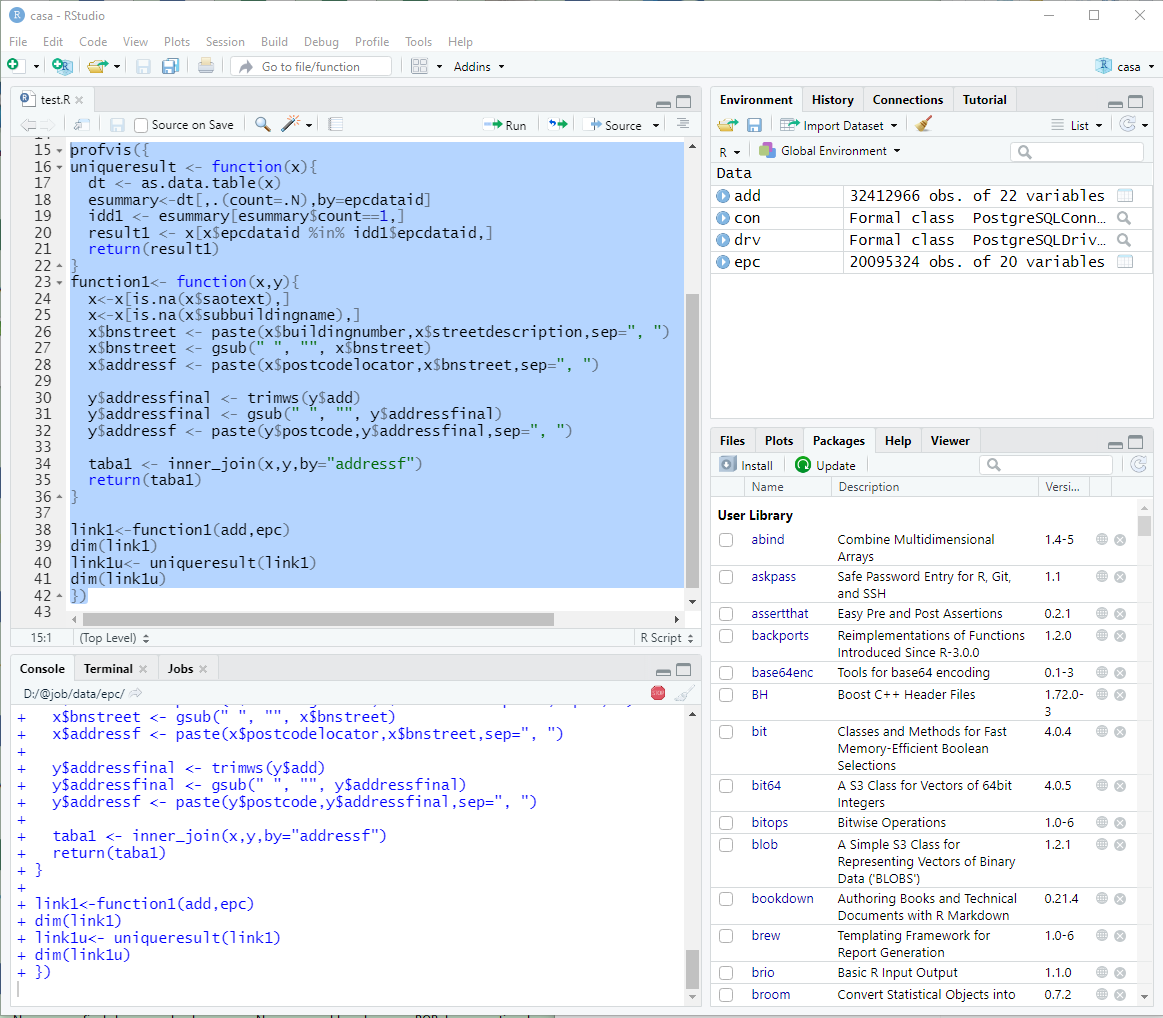
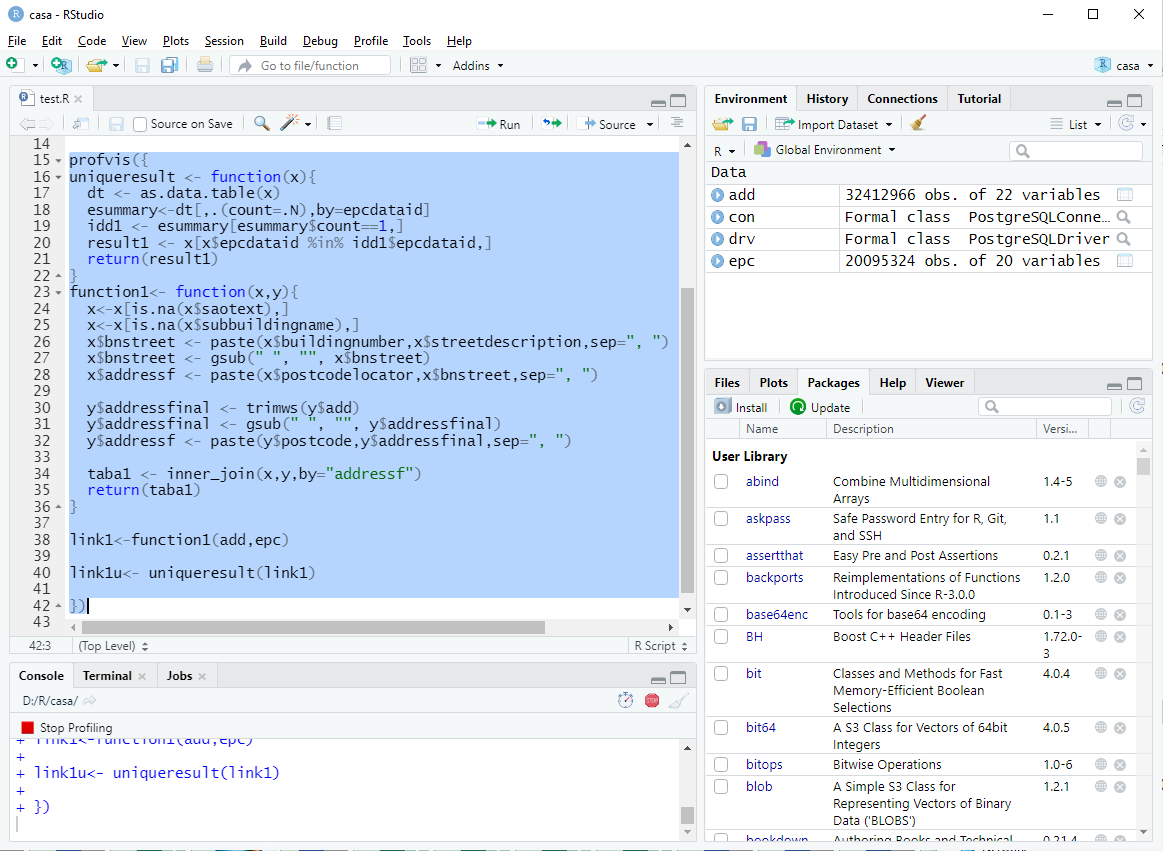
fourteen

Changed region(s): [[0.0, 0.0, 1.0, 1.0], [0.9286, 0.0, 1.0, 0.0306], [0.8358, 0.4583, 0.8667, 0.4888]]

diff --git a/docs/working-with-big-data-in-r.html b/docs/working-with-big-data-in-r.html
@@ -556,7 +556,7 @@ code span.wa { color: #60a0b0; font-weight: bold; font-style: italic; } /* Warni
 <span id="cb47-6"><a href="working-with-big-data-in-r.html#cb47-6" aria-hidden="true" tabindex="-1"></a>end_time <span class="ot">&lt;-</span> <span class="fu">Sys.time</span>()</span>
 <span id="cb47-7"><a href="working-with-big-data-in-r.html#cb47-7" aria-hidden="true" tabindex="-1"></a></span>
 <span id="cb47-8"><a href="working-with-big-data-in-r.html#cb47-8" aria-hidden="true" tabindex="-1"></a>end_time <span class="sc">-</span> start_time</span></code></pre></div>
-<pre><code>## Time difference of 0.02998495 secs</code></pre>
+<pre><code>## Time difference of 0.06696296 secs</code></pre>
 <div class="sourceCode" id="cb49"><pre class="sourceCode r"><code class="sourceCode r"><span id="cb49-1"><a href="working-with-big-data-in-r.html#cb49-1" aria-hidden="true" tabindex="-1"></a><span class="co"># Convert data.table to data.frame</span></span>
 <span id="cb49-2"><a href="working-with-big-data-in-r.html#cb49-2" aria-hidden="true" tabindex="-1"></a><span class="fu">setDF</span>(epcdata1)</span>
 <span id="cb49-3"><a href="working-with-big-data-in-r.html#cb49-3" aria-hidden="true" tabindex="-1"></a><span class="fu">setDF</span>(epcdata14)</span>
@@ -566,7 +566,7 @@ code span.wa { color: #60a0b0; font-weight: bold; font-style: italic; } /* Warni
 <span id="cb49-7"><a href="working-with-big-data-in-r.html#cb49-7" aria-hidden="true" tabindex="-1"></a>epcdata<span class="ot">&lt;-</span><span class="fu">rbind</span>(epcdata1,epcdata14)</span>
 <span id="cb49-8"><a href="working-with-big-data-in-r.html#cb49-8" aria-hidden="true" tabindex="-1"></a>end_time <span class="ot">&lt;-</span> <span class="fu">Sys.time</span>()</span>
 <span id="cb49-9"><a href="working-with-big-data-in-r.html#cb49-9" aria-hidden="true" tabindex="-1"></a>end_time <span class="sc">-</span> start_time</span></code></pre></div>
-<pre><code>## Time difference of 0.03895402 secs</code></pre>
+<pre><code>## Time difference of 0.07813215 secs</code></pre>
 <div class="sourceCode" id="cb51"><pre class="sourceCode r"><code class="sourceCode r"><span id="cb51-1"><a href="working-with-big-data-in-r.html#cb51-1" aria-hidden="true" tabindex="-1"></a><span class="co"># Convert data.frame to data.table</span></span>
 <span id="cb51-2"><a href="working-with-big-data-in-r.html#cb51-2" aria-hidden="true" tabindex="-1"></a><span class="fu">setDT</span>(epcdata14)</span>
 <span id="cb51-3"><a href="working-with-big-data-in-r.html#cb51-3" aria-hidden="true" tabindex="-1"></a><span class="fu">setDT</span>(epcdata1)</span>
@@ -577,40 +577,38 @@ code span.wa { color: #60a0b0; font-weight: bold; font-style: italic; } /* Warni
 <span id="cb51-8"><a href="working-with-big-data-in-r.html#cb51-8" aria-hidden="true" tabindex="-1"></a>end_time <span class="ot">&lt;-</span> <span class="fu">Sys.time</span>()</span>
 <span id="cb51-9"><a href="working-with-big-data-in-r.html#cb51-9" aria-hidden="true" tabindex="-1"></a></span>
 <span id="cb51-10"><a href="working-with-big-data-in-r.html#cb51-10" aria-hidden="true" tabindex="-1"></a>end_time <span class="sc">-</span> start_time</span></code></pre></div>
-<pre><code>## Time difference of 0.02895999 secs</code></pre>
+<pre><code>## Time difference of 0.0624969 secs</code></pre>
 </div>
 <div id="profvis--an-interactive-profile-visualizations" class="section level3" number="4.4.2">
 <h3><span class="header-section-number">4.4.2</span> profvis- an interactive profile visualizations</h3>
 <div class="sourceCode" id="cb53"><pre class="sourceCode r"><code class="sourceCode r"><span id="cb53-1"><a href="working-with-big-data-in-r.html#cb53-1" aria-hidden="true" tabindex="-1"></a><span class="fu">profvis</span>({</span>
 <span id="cb53-2"><a href="working-with-big-data-in-r.html#cb53-2" aria-hidden="true" tabindex="-1"></a>uniqueresult <span class="ot">&lt;-</span> <span class="cf">function</span>(x){</span>
-<span id="cb53-3"><a href="working-with-big-data-in-r.html#cb53-3" aria-hidden="true" tabindex="-1"></a>  </span>
-<span id="cb53-4"><a href="working-with-big-data-in-r.html#cb53-4" aria-hidden="true" tabindex="-1"></a>  dt <span class="ot">&lt;-</span> <span class="fu">as.data.table</span>(x)</span>
-<span id="cb53-5"><a href="working-with-big-data-in-r.html#cb53-5" aria-hidden="true" tabindex="-1"></a>  esummary<span class="ot">&lt;-</span>dt[,.(<span class="at">count=</span>.N),by<span class="ot">=</span>epcdataid]</span>
-<span id="cb53-6"><a href="working-with-big-data-in-r.html#cb53-6" aria-hidden="true" tabindex="-1"></a>  idd1 <span class="ot">&lt;-</span> esummary[esummary<span class="sc">$</span>count<span class="sc">==</span><span class="dv">1</span>,]</span>
-<span id="cb53-7"><a href="working-with-big-data-in-r.html#cb53-7" aria-hidden="true" tabindex="-1"></a>  result1 <span class="ot">&lt;-</span> x[x<span class="sc">$</span>epcdataid <span class="sc">%in%</span> idd1<span class="sc">$</span>epcdataid,]</span>
-<span id="cb53-8"><a href="working-with-big-data-in-r.html#cb53-8" aria-hidden="true" tabindex="-1"></a>  <span class="fu">return</span>(result1)</span>
-<span id="cb53-9"><a href="working-with-big-data-in-r.html#cb53-9" aria-hidden="true" tabindex="-1"></a>}</span>
-<span id="cb53-10"><a href="working-with-big-data-in-r.html#cb53-10" aria-hidden="true" tabindex="-1"></a>function1<span class="ot">&lt;-</span> <span class="cf">function</span>(x,y){</span>
-<span id="cb53-11"><a href="working-with-big-data-in-r.html#cb53-11" aria-hidden="true" tabindex="-1"></a>  x<span class="ot">&lt;-</span>x[<span class="fu">is.na</span>(x<span class="sc">$</span>saotext),]</span>
-<span id="cb53-12"><a href="working-with-big-data-in-r.html#cb53-12" aria-hidden="true" tabindex="-1"></a>  x<span class="ot">&lt;-</span>x[<span class="fu">is.na</span>(x<span class="sc">$</span>subbuildingname),]</span>
-<span id="cb53-13"><a href="working-with-big-data-in-r.html#cb53-13" aria-hidden="true" tabindex="-1"></a>  x<span class="sc">$</span>bnstreet <span class="ot">&lt;-</span> <span class="fu">paste</span>(x<span class="sc">$</span>buildingnumber,x<span class="sc">$</span>streetdescription,<span class="at">sep=</span><span class="st">&quot;, &quot;</span>)</span>
-<span id="cb53-14"><a href="working-with-big-data-in-r.html#cb53-14" aria-hidden="true" tabindex="-1"></a>  x<span class="sc">$</span>bnstreet <span class="ot">&lt;-</span> <span class="fu">gsub</span>(<span class="st">&quot; &quot;</span>, <span class="st">&quot;&quot;</span>, x<span class="sc">$</span>bnstreet)</span>
-<span id="cb53-15"><a href="working-with-big-data-in-r.html#cb53-15" aria-hidden="true" tabindex="-1"></a>  x<span class="sc">$</span>addressf <span class="ot">&lt;-</span> <span class="fu">paste</span>(x<span class="sc">$</span>postcodelocator,x<span class="sc">$</span>bnstreet,<span class="at">sep=</span><span class="st">&quot;, &quot;</span>)</span>
-<span id="cb53-16"><a href="working-with-big-data-in-r.html#cb53-16" aria-hidden="true" tabindex="-1"></a>  </span>
-<span id="cb53-17"><a href="working-with-big-data-in-r.html#cb53-17" aria-hidden="true" tabindex="-1"></a>  y<span class="sc">$</span>addressfinal <span class="ot">&lt;-</span> <span class="fu">trimws</span>(y<span class="sc">$</span>add)</span>
-<span id="cb53-18"><a href="working-with-big-data-in-r.html#cb53-18" aria-hidden="true" tabindex="-1"></a>  y<span class="sc">$</span>addressfinal <span class="ot">&lt;-</span> <span class="fu">gsub</span>(<span class="st">&quot; &quot;</span>, <span class="st">&quot;&quot;</span>, y<span class="sc">$</span>addressfinal)</span>
-<span id="cb53-19"><a href="working-with-big-data-in-r.html#cb53-19" aria-hidden="true" tabindex="-1"></a>  y<span class="sc">$</span>addressf <span class="ot">&lt;-</span> <span class="fu">paste</span>(y<span class="sc">$</span>postcode,y<span class="sc">$</span>addressfinal,<span class="at">sep=</span><span class="st">&quot;, &quot;</span>)</span>
-<span id="cb53-20"><a href="working-with-big-data-in-r.html#cb53-20" aria-hidden="true" tabindex="-1"></a>  </span>
-<span id="cb53-21"><a href="working-with-big-data-in-r.html#cb53-21" aria-hidden="true" tabindex="-1"></a>  taba1 <span class="ot">&lt;-</span> <span class="fu">inner_join</span>(x,y,<span class="at">by=</span><span class="st">&quot;addressf&quot;</span>)</span>
-<span id="cb53-22"><a href="working-with-big-data-in-r.html#cb53-22" aria-hidden="true" tabindex="-1"></a>  <span class="fu">return</span>(taba1)</span>
-<span id="cb53-23"><a href="working-with-big-data-in-r.html#cb53-23" aria-hidden="true" tabindex="-1"></a>  </span>
-<span id="cb53-24"><a href="working-with-big-data-in-r.html#cb53-24" aria-hidden="true" tabindex="-1"></a>}</span>
-<span id="cb53-25"><a href="working-with-big-data-in-r.html#cb53-25" aria-hidden="true" tabindex="-1"></a></span>
-<span id="cb53-26"><a href="working-with-big-data-in-r.html#cb53-26" aria-hidden="true" tabindex="-1"></a>link1<span class="ot">&lt;-</span><span class="fu">function1</span>(add,epc)</span>
-<span id="cb53-27"><a href="working-with-big-data-in-r.html#cb53-27" aria-hidden="true" tabindex="-1"></a></span>
-<span id="cb53-28"><a href="working-with-big-data-in-r.html#cb53-28" aria-hidden="true" tabindex="-1"></a>link1<span class="ot">&lt;-</span> <span class="fu">uniqueresult</span>(link1)</span>
-<span id="cb53-29"><a href="working-with-big-data-in-r.html#cb53-29" aria-hidden="true" tabindex="-1"></a><span class="fu">dim</span>(link1)</span>
-<span id="cb53-30"><a href="working-with-big-data-in-r.html#cb53-30" aria-hidden="true" tabindex="-1"></a>})</span></code></pre></div>
+<span id="cb53-3"><a href="working-with-big-data-in-r.html#cb53-3" aria-hidden="true" tabindex="-1"></a>  dt <span class="ot">&lt;-</span> <span class="fu">as.data.table</span>(x)</span>
+<span id="cb53-4"><a href="working-with-big-data-in-r.html#cb53-4" aria-hidden="true" tabindex="-1"></a>  esummary<span class="ot">&lt;-</span>dt[,.(<span class="at">count=</span>.N),by<span class="ot">=</span>epcdataid]</span>
+<span id="cb53-5"><a href="working-with-big-data-in-r.html#cb53-5" aria-hidden="true" tabindex="-1"></a>  idd1 <span class="ot">&lt;-</span> esummary[esummary<span class="sc">$</span>count<span class="sc">==</span><span class="dv">1</span>,]</span>
+<span id="cb53-6"><a href="working-with-big-data-in-r.html#cb53-6" aria-hidden="true" tabindex="-1"></a>  result1 <span class="ot">&lt;-</span> x[x<span class="sc">$</span>epcdataid <span class="sc">%in%</span> idd1<span class="sc">$</span>epcdataid,]</span>
+<span id="cb53-7"><a href="working-with-big-data-in-r.html#cb53-7" aria-hidden="true" tabindex="-1"></a>  <span class="fu">return</span>(result1)</span>
+<span id="cb53-8"><a href="working-with-big-data-in-r.html#cb53-8" aria-hidden="true" tabindex="-1"></a>}</span>
+<span id="cb53-9"><a href="working-with-big-data-in-r.html#cb53-9" aria-hidden="true" tabindex="-1"></a>function1<span class="ot">&lt;-</span> <span class="cf">function</span>(x,y){</span>
+<span id="cb53-10"><a href="working-with-big-data-in-r.html#cb53-10" aria-hidden="true" tabindex="-1"></a>  x<span class="ot">&lt;-</span>x[<span class="fu">is.na</span>(x<span class="sc">$</span>saotext),]</span>
+<span id="cb53-11"><a href="working-with-big-data-in-r.html#cb53-11" aria-hidden="true" tabindex="-1"></a>  x<span class="ot">&lt;-</span>x[<span class="fu">is.na</span>(x<span class="sc">$</span>subbuildingname),]</span>
+<span id="cb53-12"><a href="working-with-big-data-in-r.html#cb53-12" aria-hidden="true" tabindex="-1"></a>  x<span class="sc">$</span>bnstreet <span class="ot">&lt;-</span> <span class="fu">paste</span>(x<span class="sc">$</span>buildingnumber,x<span class="sc">$</span>streetdescription,<span class="at">sep=</span><span class="st">&quot;, &quot;</span>)</span>
+<span id="cb53-13"><a href="working-with-big-data-in-r.html#cb53-13" aria-hidden="true" tabindex="-1"></a>  x<span class="sc">$</span>bnstreet <span class="ot">&lt;-</span> <span class="fu">gsub</span>(<span class="st">&quot; &quot;</span>, <span class="st">&quot;&quot;</span>, x<span class="sc">$</span>bnstreet)</span>
+<span id="cb53-14"><a href="working-with-big-data-in-r.html#cb53-14" aria-hidden="true" tabindex="-1"></a>  x<span class="sc">$</span>addressf <span class="ot">&lt;-</span> <span class="fu">paste</span>(x<span class="sc">$</span>postcodelocator,x<span class="sc">$</span>bnstreet,<span class="at">sep=</span><span class="st">&quot;, &quot;</span>)</span>
+<span id="cb53-15"><a href="working-with-big-data-in-r.html#cb53-15" aria-hidden="true" tabindex="-1"></a>  </span>
+<span id="cb53-16"><a href="working-with-big-data-in-r.html#cb53-16" aria-hidden="true" tabindex="-1"></a>  y<span class="sc">$</span>addressfinal <span class="ot">&lt;-</span> <span class="fu">trimws</span>(y<span class="sc">$</span>add)</span>
+<span id="cb53-17"><a href="working-with-big-data-in-r.html#cb53-17" aria-hidden="true" tabindex="-1"></a>  y<span class="sc">$</span>addressfinal <span class="ot">&lt;-</span> <span class="fu">gsub</span>(<span class="st">&quot; &quot;</span>, <span class="st">&quot;&quot;</span>, y<span class="sc">$</span>addressfinal)</span>
+<span id="cb53-18"><a href="working-with-big-data-in-r.html#cb53-18" aria-hidden="true" tabindex="-1"></a>  y<span class="sc">$</span>addressf <span class="ot">&lt;-</span> <span class="fu">paste</span>(y<span class="sc">$</span>postcode,y<span class="sc">$</span>addressfinal,<span class="at">sep=</span><span class="st">&quot;, &quot;</span>)</span>
+<span id="cb53-19"><a href="working-with-big-data-in-r.html#cb53-19" aria-hidden="true" tabindex="-1"></a>  </span>
+<span id="cb53-20"><a href="working-with-big-data-in-r.html#cb53-20" aria-hidden="true" tabindex="-1"></a>  taba1 <span class="ot">&lt;-</span> <span class="fu">inner_join</span>(x,y,<span class="at">by=</span><span class="st">&quot;addressf&quot;</span>)</span>
+<span id="cb53-21"><a href="working-with-big-data-in-r.html#cb53-21" aria-hidden="true" tabindex="-1"></a>  <span class="fu">return</span>(taba1)</span>
+<span id="cb53-22"><a href="working-with-big-data-in-r.html#cb53-22" aria-hidden="true" tabindex="-1"></a>}</span>
+<span id="cb53-23"><a href="working-with-big-data-in-r.html#cb53-23" aria-hidden="true" tabindex="-1"></a></span>
+<span id="cb53-24"><a href="working-with-big-data-in-r.html#cb53-24" aria-hidden="true" tabindex="-1"></a>link1<span class="ot">&lt;-</span><span class="fu">function1</span>(add,epc)</span>
+<span id="cb53-25"><a href="working-with-big-data-in-r.html#cb53-25" aria-hidden="true" tabindex="-1"></a><span class="fu">dim</span>(link1)</span>
+<span id="cb53-26"><a href="working-with-big-data-in-r.html#cb53-26" aria-hidden="true" tabindex="-1"></a>link1u<span class="ot">&lt;-</span> <span class="fu">uniqueresult</span>(link1)</span>
+<span id="cb53-27"><a href="working-with-big-data-in-r.html#cb53-27" aria-hidden="true" tabindex="-1"></a><span class="fu">dim</span>(link1u)</span>
+<span id="cb53-28"><a href="working-with-big-data-in-r.html#cb53-28" aria-hidden="true" tabindex="-1"></a>})</span></code></pre></div>
 <hr />
 <center>
 <img src="pic/pro1.png" />
